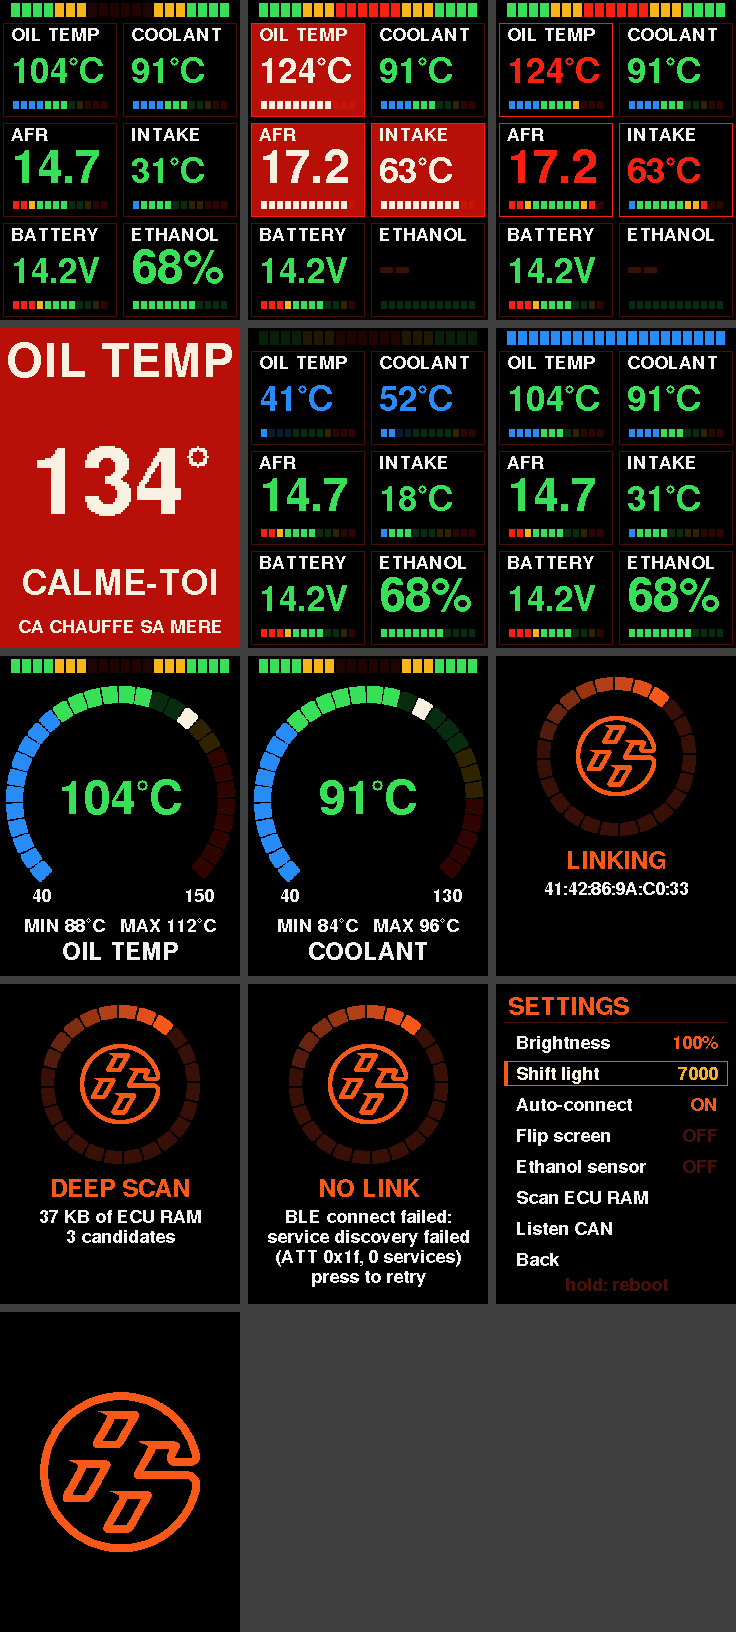
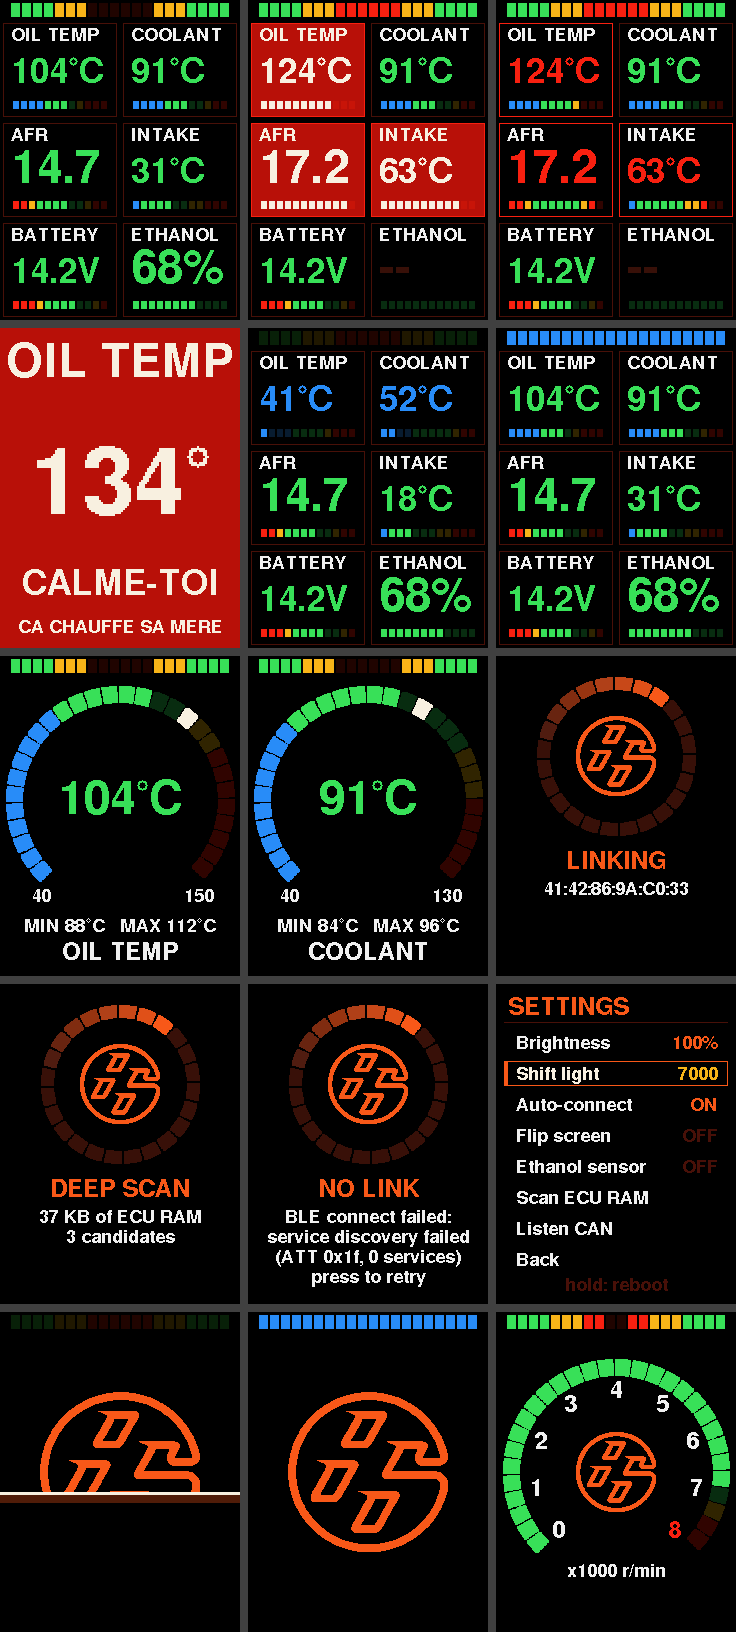
feat: CAN listen for the sport mode ID, GT86-style boot animation, half-step encoder fix, ECU RAM scan, multi-PID polling, race wheel shift light, intake temp, blinking alarms, cold band, oil overheat takeover

Changed region(s): [[0.0, 0.7812, 1.0, 1.0], [0.0312, 0.7812, 0.3125, 0.8125]]

diff --git a/src/app/ui.c b/src/app/ui.c
@@ -514,29 +514,50 @@ static void draw_logo(canvas_t *c, int cx, int cy, int shrink, color_t color) {
     }
 }
 
+// The boot shift light revs over the bar's span up to this.
+#define BOOT_SHIFT_RPM 7000
+
 bool ui_render_boot(canvas_t *c, uint32_t elapsed_ms, uint32_t now_ms) {
     if (elapsed_ms >= BOOT_DURATION_MS) {
         return false;
     }
     const theme_t *t = &theme_dark;
     gfx_fill_rect(c, 0, 0, c->width, c->height, t->background);
+    reading_t rpm = {.valid = true, .updated_ms = now_ms};
     if (elapsed_ms < BOOT_SPLASH_MS) {
-        uint32_t fade = elapsed_ms;
-        if (BOOT_SPLASH_MS - elapsed_ms < fade) {
-            fade = BOOT_SPLASH_MS - elapsed_ms;
+        // The logo, revealed top down behind a bright scan line.
+        int top = (c->height - (logo_bin[2] << 8 | logo_bin[3])) / 2, bottom = c->height - top;
+        draw_logo(c, c->width / 2, c->height / 2, 1, t->accent);
+        if (elapsed_ms < BOOT_REVEAL_MS) {
+            int line = top + (bottom - top) * (int)elapsed_ms / BOOT_REVEAL_MS;
+            gfx_fill_rect(c, 0, line, c->width, c->height - line, t->background);
+            gfx_fill_rect(c, 0, line, c->width, 3, t->alarm_text);
+            gfx_fill_rect(c, 0, line + 3, c->width, 8, gfx_blend(t->background, t->accent, 0.35f));
         }
-        if (fade > BOOT_FADE_MS) {
-            fade = BOOT_FADE_MS;
-        }
-        draw_logo(c, c->width / 2, c->height / 2, 1, gfx_blend(t->background, t->accent, (float)fade / BOOT_FADE_MS));
+        // Then a rev: the shift light fills, then flashes blue.
+        float rev = (float)((int)elapsed_ms - BOOT_REVEAL_MS) / (BOOT_SPLASH_MS - BOOT_REVEAL_MS - 200);
+        rpm.value = rev < 0 ? 0 : BOOT_SHIFT_RPM - SHIFT_SPAN_RPM + rev * SHIFT_SPAN_RPM;
+        draw_shift_light(c, t, &rpm, BOOT_SHIFT_RPM, now_ms);
         return true;
     }
-    float sweep = sinf(3.14159265f * (float)(elapsed_ms - BOOT_SPLASH_MS) / BOOT_SWEEP_MS);
-    reading_t readings[SIG_COUNT] = {0};
-    for (int i = 0; i < ui_tile_count; i++) {
-        const range_t *r = &ui_tiles[i].range;
-        readings[ui_tiles[i].signal] = (reading_t){.value = r->min + sweep * (r->max - r->min), .valid = true, .updated_ms = now_ms};
+    // Like the GT86's own cluster at ignition: the tachometer sweeps to
+    // its end and back, its scale around, the logo in the middle.
+    float sweep = sinf(PI * (float)(elapsed_ms - BOOT_SPLASH_MS) / BOOT_SWEEP_MS);
+    const range_t tach = RPM_RANGE;
+    int cx = c->width / 2, cy = SHIFT_BAR_HEIGHT + 140, r_out = c->width / 2 - 8, r_in = r_out - DIAL_WIDTH;
+    color_t colors[DIAL_SEGMENTS];
+    segment_colors(&tach, sweep, -1, DIAL_SEGMENTS, false, t, colors);
+    draw_arc(c, cx, cy, r_in, r_out, DIAL_START, DIAL_SWEEP, DIAL_SEGMENTS, colors);
+    for (int k = 0; k <= 8; k++) {
+        float a = (DIAL_START + (float)k * DIAL_SWEEP / 8) * PI / 180;
+        char digit[2] = {(char)('0' + k), 0};
+        int r = r_in - 16;
+        text_centered(c, &font_bold12, cx + (int)lroundf((float)r * cosf(a)), cy + (int)lroundf((float)r * sinf(a)) + 7,
+                      digit, k * 1000 >= (int)tach.danger_high ? t->danger : t->label, 1);
     }
-    draw_grid(c, t, readings, 0, now_ms);
+    draw_logo(c, cx, cy, 2, t->accent);
+    text_centered(c, label_font, cx, cy + r_out * 7 / 10 + 26, "x1000 r/min", t->label, 1);
+    rpm.value = BOOT_SHIFT_RPM - SHIFT_SPAN_RPM + sweep * SHIFT_SPAN_RPM * 0.99f;
+    draw_shift_light(c, t, &rpm, BOOT_SHIFT_RPM, now_ms);
     return true;
 }

diff --git a/tools/render_ui.c b/tools/render_ui.c
@@ -131,13 +131,23 @@ static void settings(canvas_t *c) {
     render(c, &s, (screen_t){.page = PAGE_SETTINGS, .cursor = ROW_SHIFT_LIGHT, .editing = true});
 }
 
-static void boot(canvas_t *c) {
-    ui_render_boot(c, BOOT_SPLASH_MS / 2, now);
+// The boot animation: the logo halfway revealed, the rev's blue flash,
+// the gauges' sweep.
+static void boot_reveal(canvas_t *c) {
+    ui_render_boot(c, BOOT_REVEAL_MS * 3 / 5, now);
+}
+
+static void boot_rev(canvas_t *c) {
+    ui_render_boot(c, BOOT_SPLASH_MS - 100, now);
+}
+
+static void boot_sweep(canvas_t *c) {
+    ui_render_boot(c, BOOT_SPLASH_MS + BOOT_SWEEP_MS / 3, now);
 }
 
 static const shot_t shots[] = {
     {"grid", grid},         {"alarms", alarms}, {"alarms_unlit", alarms_unlit}, {"oil_critical", oil_critical}, {"cold", cold}, {"shift", shift}, {"oil", oil},           {"coolant", coolant},
-    {"connecting", connecting}, {"scan", scan}, {"failed", failed}, {"settings", settings}, {"boot", boot},
+    {"connecting", connecting}, {"scan", scan}, {"failed", failed}, {"settings", settings}, {"boot_reveal", boot_reveal}, {"boot_rev", boot_rev}, {"boot_sweep", boot_sweep},
 };
 #define SHOTS (int)(sizeof shots / sizeof shots[0])
 

diff --git a/src/app/ui.h b/src/app/ui.h
@@ -57,8 +57,10 @@ extern const int ui_tile_count;
 // in a grid. now_ms drives the spinner and staleness.
 void ui_render(canvas_t *c, const state_t *state, const screen_t *screen, const settings_t *cfg, uint32_t now_ms);
 
-#define BOOT_SPLASH_MS 1500
-#define BOOT_FADE_MS 300
+// The boot animation: the logo revealed behind a scan line, the shift
+// light revving to a blue flash, then every gauge sweeping up and back.
+#define BOOT_REVEAL_MS 900
+#define BOOT_SPLASH_MS 1600
 #define BOOT_SWEEP_MS 2000
 #define BOOT_DURATION_MS (BOOT_SPLASH_MS + BOOT_SWEEP_MS)
 

diff --git a/src/firmware/knob.c b/src/firmware/knob.c
@@ -4,9 +4,10 @@
 #include "hardware/gpio.h"
 #include "hardware/irq.h"
 
-// 4 quadrature steps per detent. If one click moves two steps, the
-// encoder is a half-step one: use 2.
-#define STEPS_PER_DETENT 4
+// Quadrature steps per detent: this car's KY-040 is a half-step one (2
+// steps a click, resting at both 00 and 11; with 4, it took two clicks
+// to move). A full-step one takes 4.
+#define STEPS_PER_DETENT 2
 // A button change within this long of the last one is a bounce.
 #define DEBOUNCE_MS 25
 

diff --git a/CLAUDE.md b/CLAUDE.md
@@ -33,7 +33,7 @@ Data flows one way: **source -> `state_t` -> `ui_render(canvas, state, screen, s
 - Connection control: without auto-connect the source waits on "press to connect"; a failure waits for a click to retry (auto-connect: retries after 5s). `main.c` hands a click to `ble_prompt_click` only on the gauges page. A retry is `watchdog_reboot` with `CONNECT_NOW` in watchdog scratch 0, so the next boot connects without asking.
 - Standby: once polling, if the engine ECU hasn't answered anything for `CAR_OFF_MS` (90s), `ble.c` disconnects (so the dongle, always powered by the OBD port, can sleep) and powers the radio off; `main.c` puts the panel to sleep and stops drawing. A click reboots to connect. It saves what software can: a Pico on an always-live supply still draws ~20mA.
 - `screen_t` is what the encoder drives: on the gauges, turning cycles views (grid, then each gauge alone, its value drawn 2-3x by `gfx_text`'s scale instead of a bigger font); a click opens the settings page (brightness, shift light RPM, auto-connect, flip, ethanol sensor: the ADC is only read when on, an unconnected pin floats; Scan ECU RAM, Listen CAN), which `main.c` applies at once and saves to flash when leaving the page. A 1s hold reboots.
-- `state_t.status` is the source's report while it isn't delivering: while non-empty, the gauges page draws a status screen (title, wrapped lines, spinner) instead of the tiles. A reading older than its tile's `stale_ms` renders as "--" (2s, 10s for the oil temperature polled every 3s). At power-on `ui_render_boot` fades the logo, then sweeps every gauge.
+- `state_t.status` is the source's report while it isn't delivering: while non-empty, the gauges page draws a status screen (title, wrapped lines, spinner) instead of the tiles. A reading older than its tile's `stale_ms` renders as "--" (2s, 10s for the oil temperature polled every 3s). At power-on `ui_render_boot` reveals the logo behind a scan line, revs the shift light to a blue flash, then sweeps a GT86-style tachometer to its end and back.
 - Thresholds are the `*_RANGE` macros at the top of `src/app/ui.c`; `ui_tiles` wires labels, formats and units onto them.
 - The look copies the GT86's own cluster: black, red-orange around the readings (`accent`), white labels; readings take their band's color: green fine, amber warns, a reading in danger blinks its whole tile red, blue is an engine not warm yet (oil under 80°C, coolant under 70°C: not alarms, every cold start goes through them). From `OIL_CRITICAL` (130°C) the oil temperature takes the whole screen, on every page. Gauges are segments colored by the band each stands for, the unlit ones faintly so the red zone shows at rest; a gauge alone is a round dial like the tachometer, with the session's min and max (`reading_t`, since boot) and its peak marked. No RPM tile (the car's tachometer is in front of the driver): RPM drives the shift light, a race wheel's LED bar across the top of the gauges, 20 narrow LEDs lighting in pairs from both ends over the last 1500 rpm (green, amber, red), all flashing blue from the shift RPM.
 

diff --git a/docs/wiring.md b/docs/wiring.md
@@ -37,8 +37,9 @@ Turn on the gauges: every gauge, then each one alone, big. Click on the
 gauges: settings page (turn to pick a row, click to change it, Back to
 leave); while the screen says "press to connect" or "press to retry",
 the click goes to the connection instead. Hold 1s: reboot. If turning
-goes the wrong way, swap CLK and DT; if one click moves two steps, the
-encoder is half-step: set `STEPS_PER_DETENT` to 2 in `src/firmware/knob.c`.
+goes the wrong way, swap CLK and DT. `STEPS_PER_DETENT` in
+`src/firmware/knob.c` is 2, for a half-step encoder (the one on this
+car); if one click moves two rows, it's a full-step one: set it to 4.
 
 Keep GP15 free: the pico-sdk drives it briefly at boot for the RP2040 USB
 enumeration workaround (erratum RP2040-E5).
